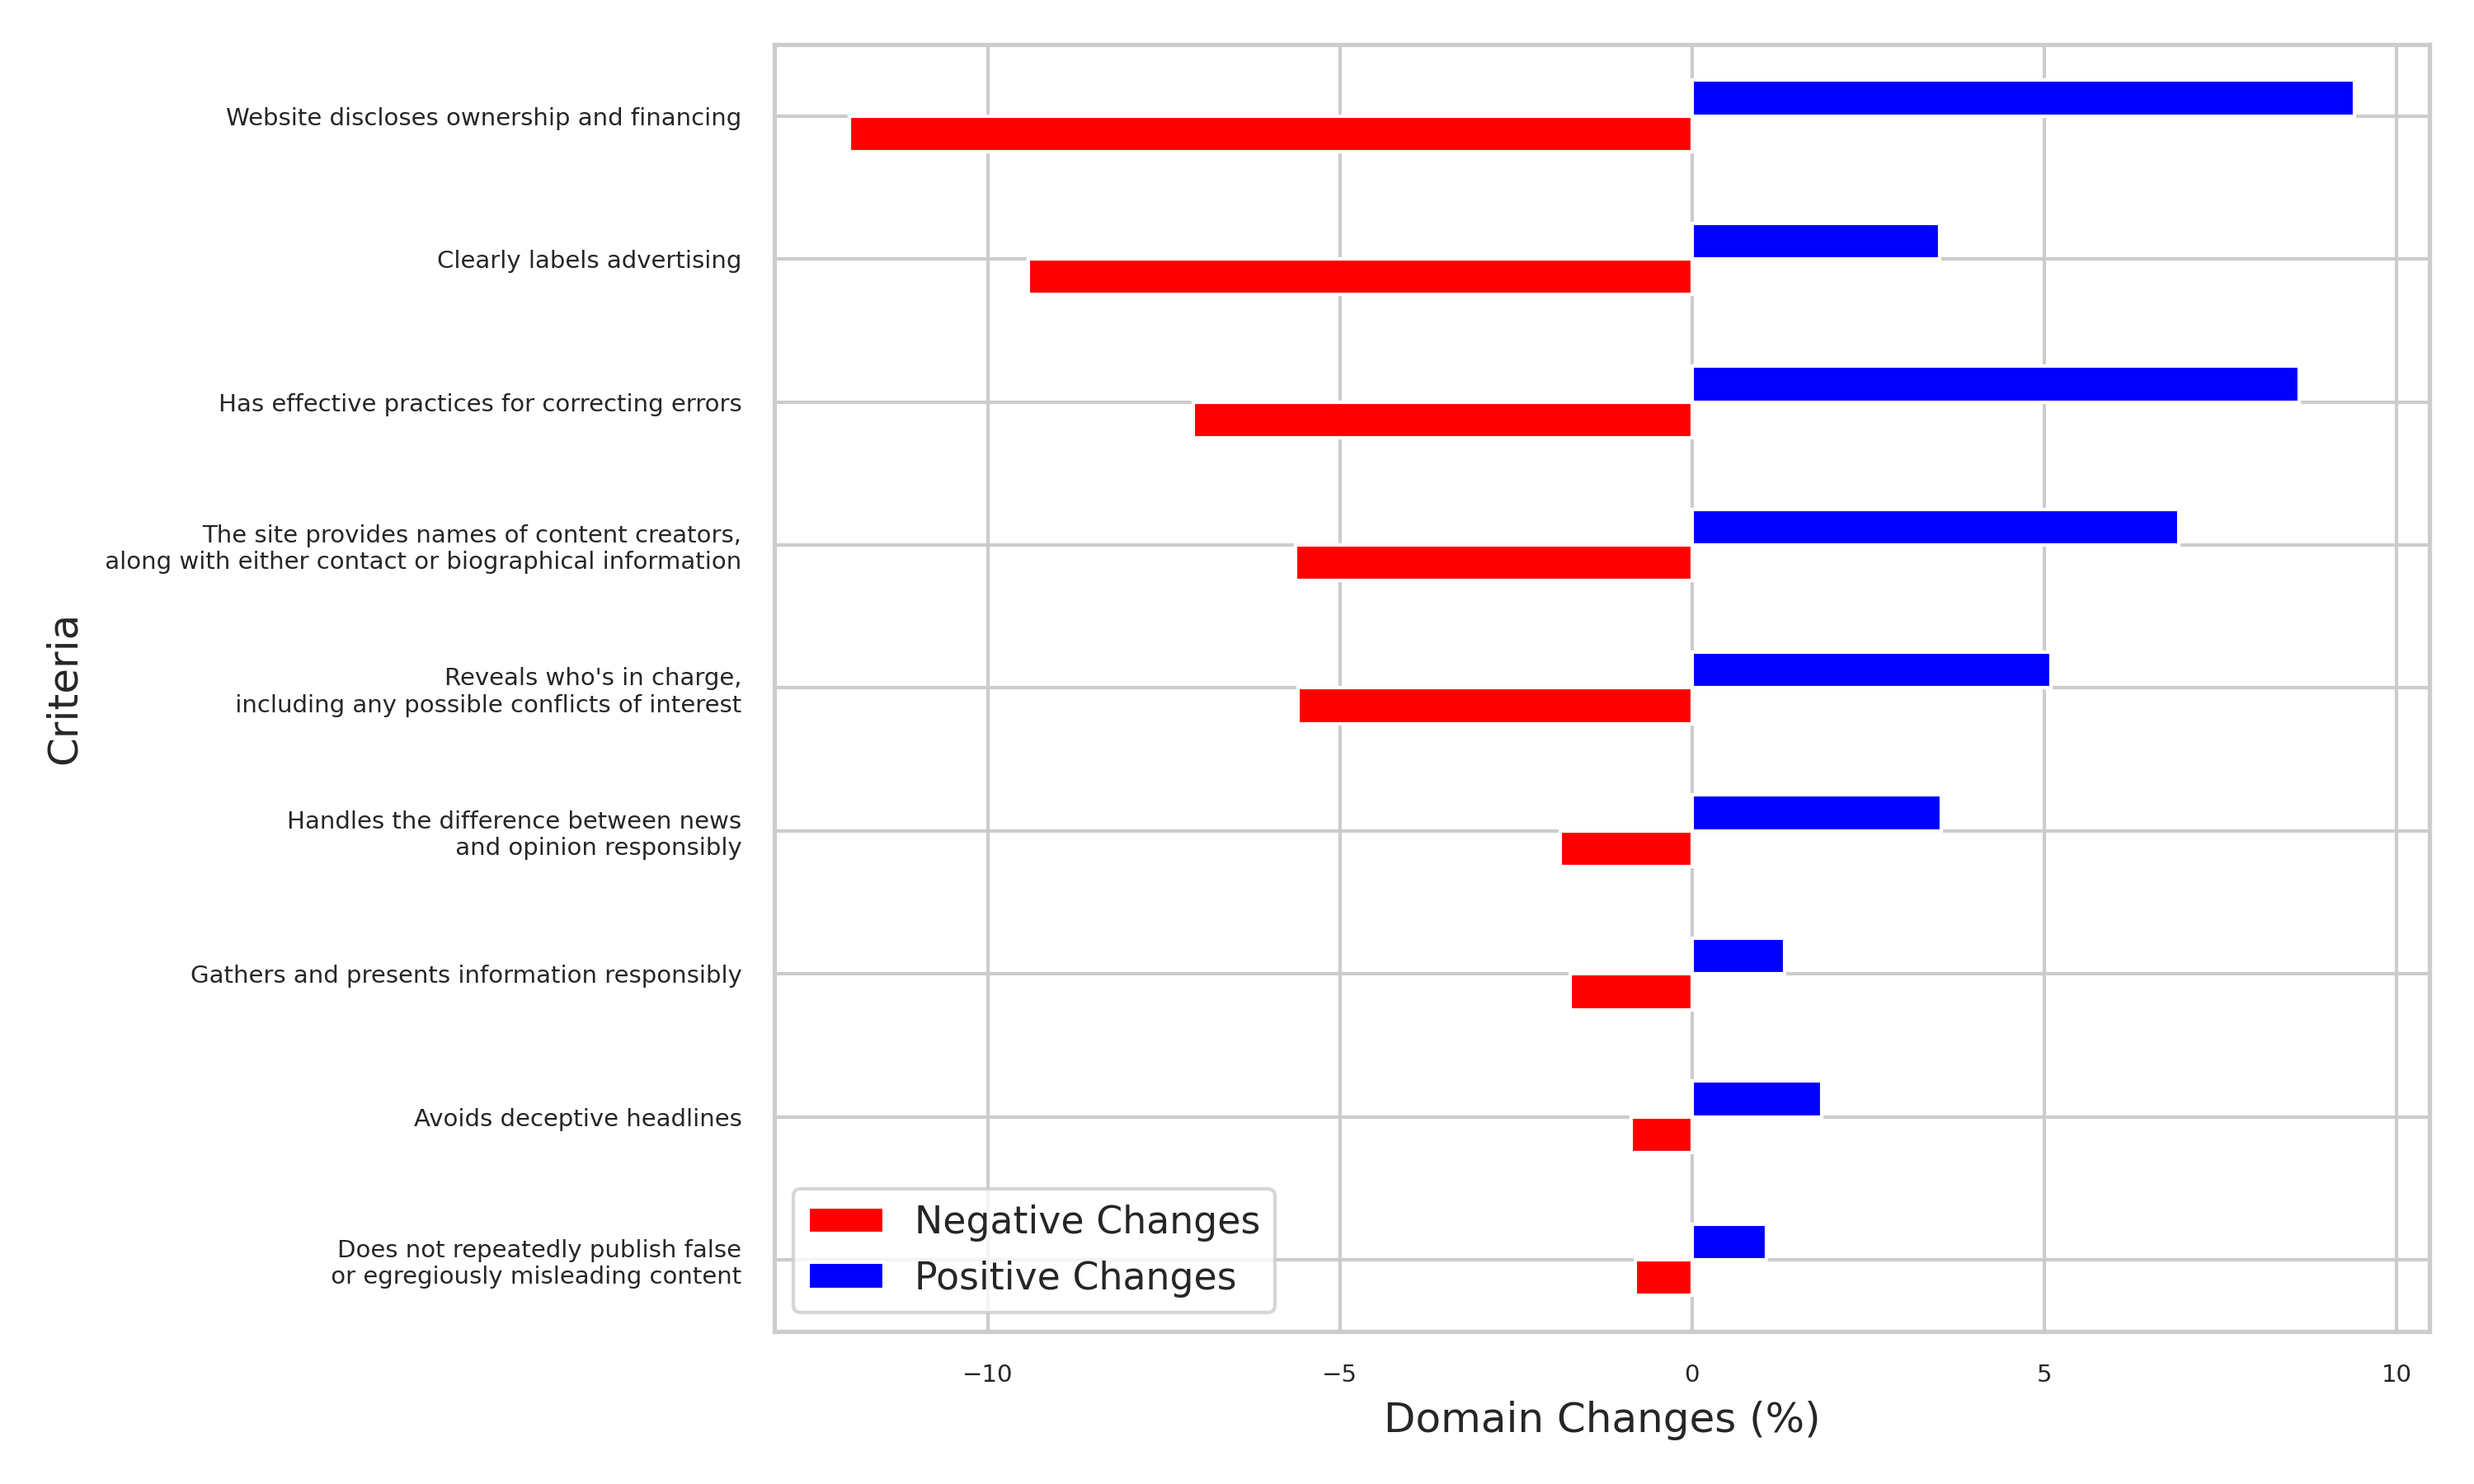
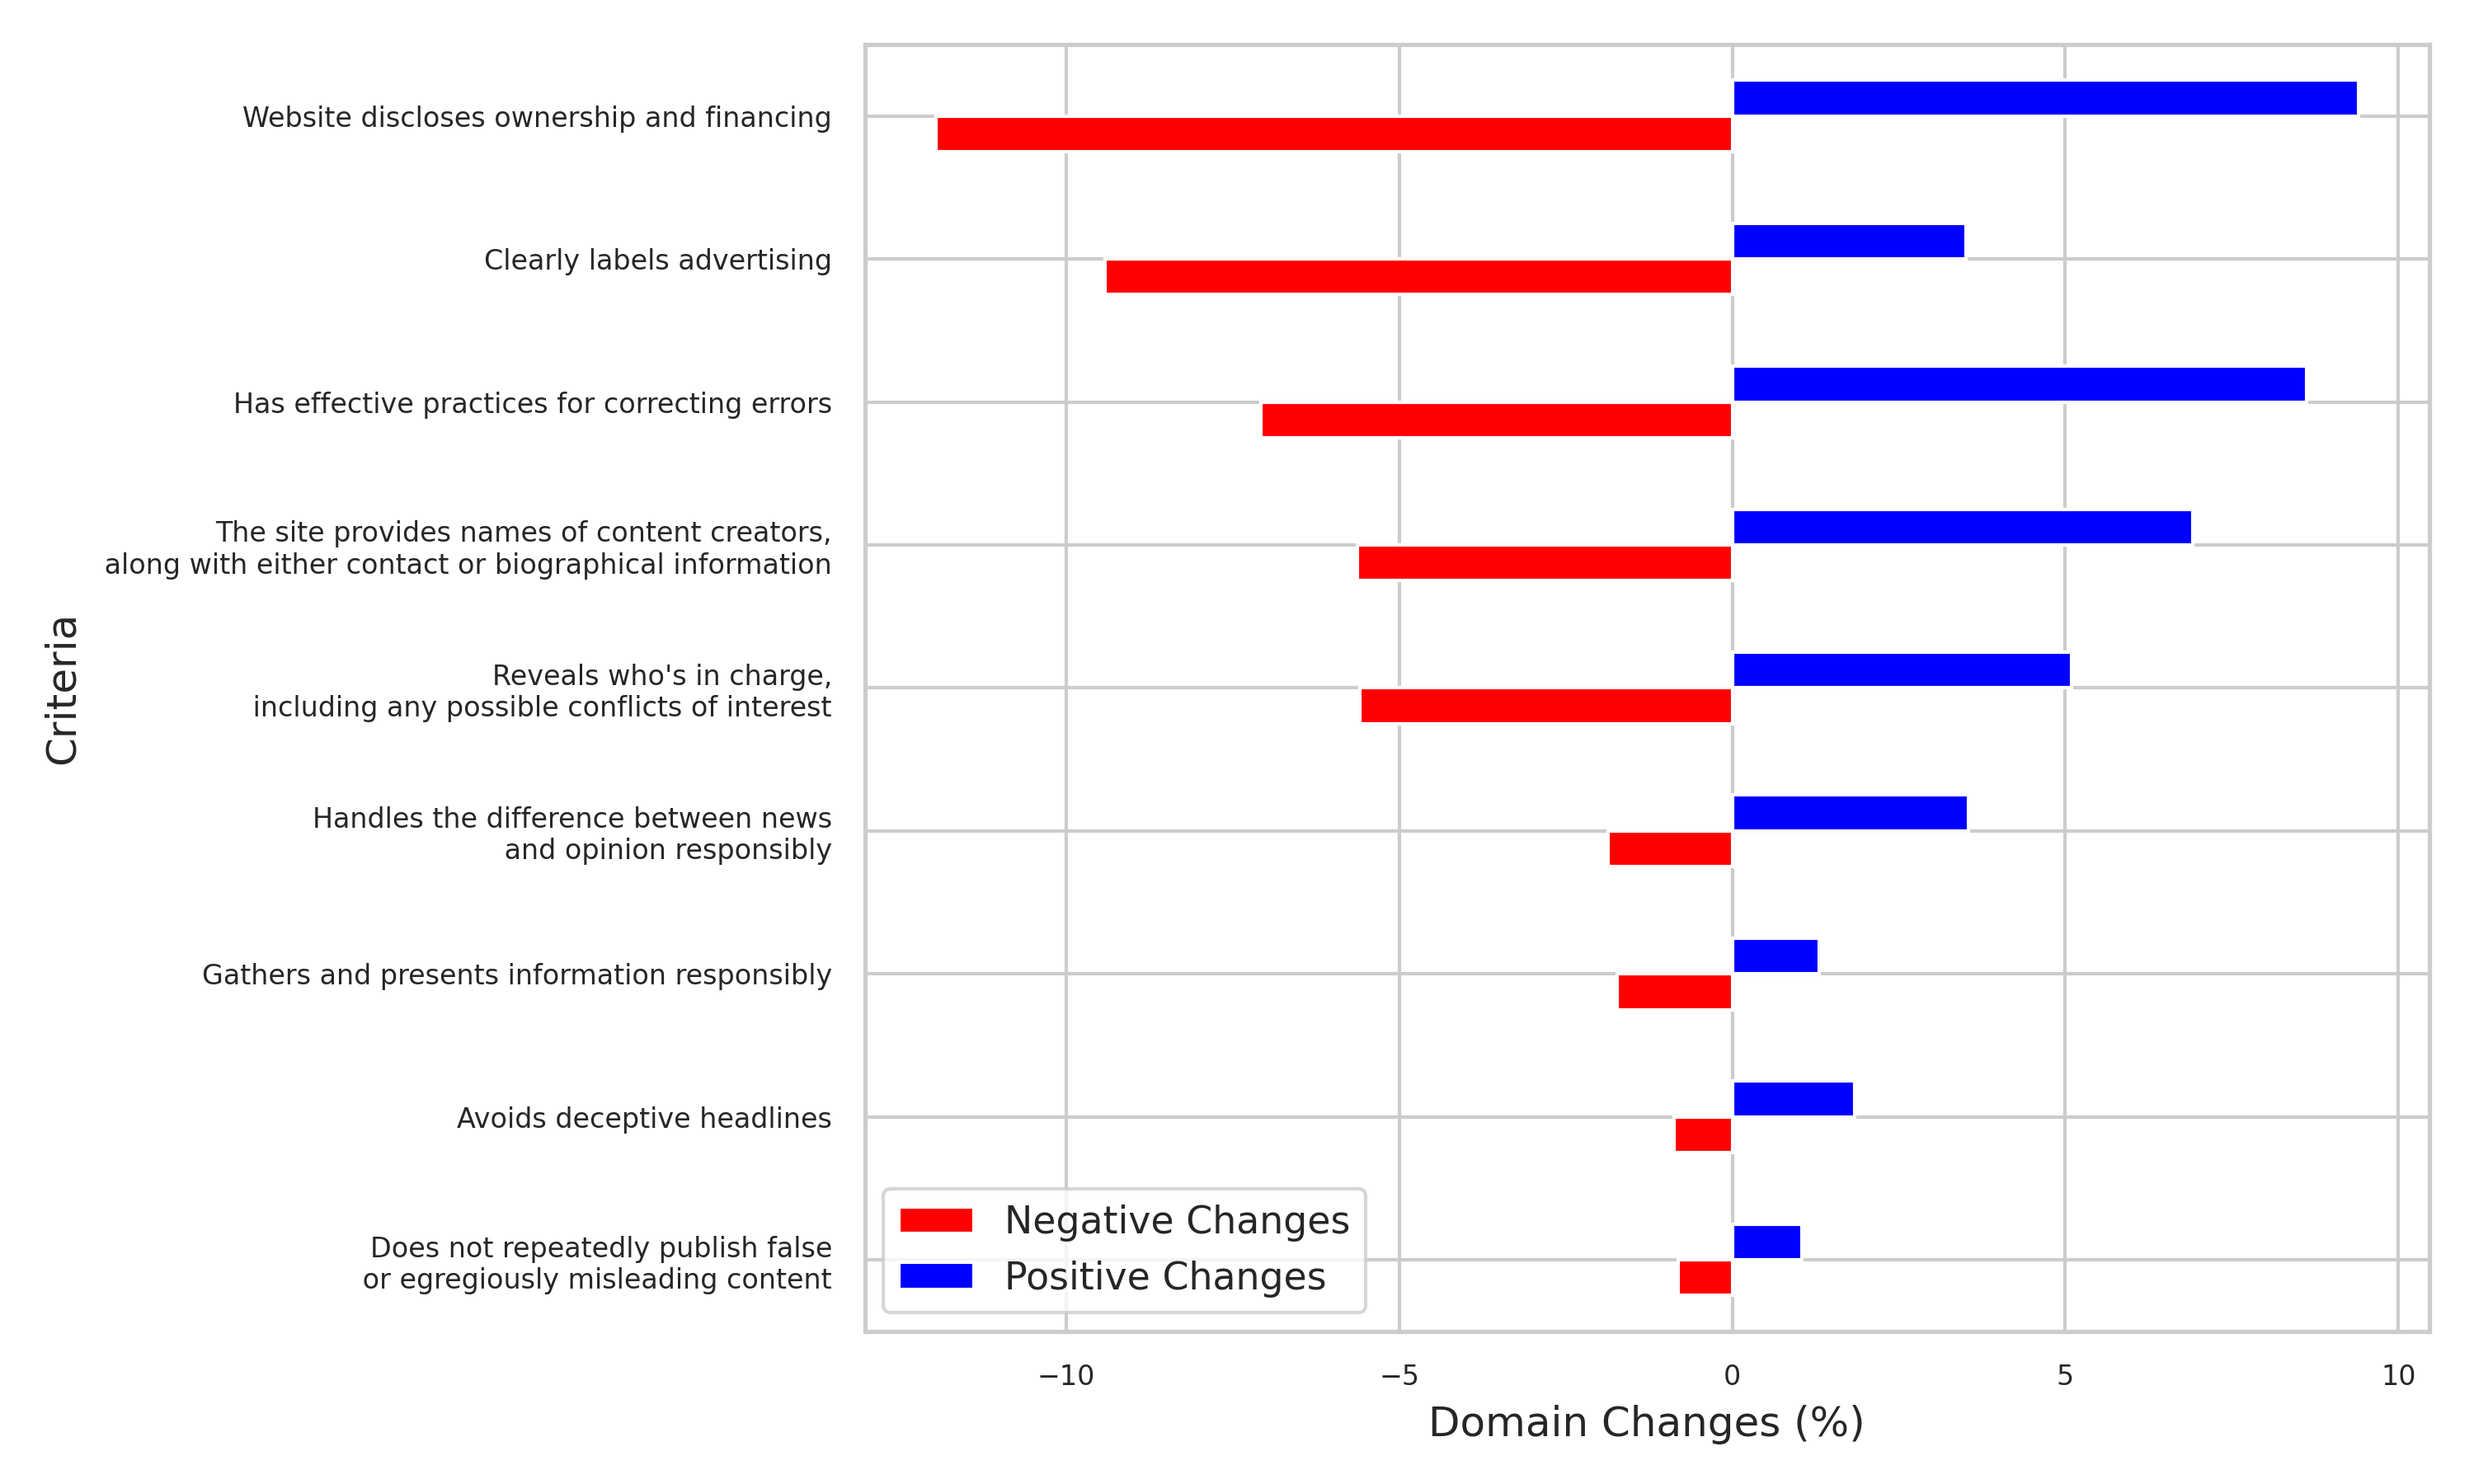
table 1 note update and f4

diff --git a/tables/t1_countries.tex b/tables/t1_countries.tex
@@ -1,7 +1,7 @@
 \begin{table}[H]
 \centering
 \caption{\textbf{Country Descriptives.}}
-\label{table:table1}
+\label{table:table2}
 \begin{tabularx}{\textwidth}{ X c c c c }
 \toprule
 Country &       n (\%) & Trustworthiness (SD) &  Updates \\
@@ -17,6 +17,6 @@ Country &       n (\%) & Trustworthiness (SD) &  Updates \\
      AT &    40 (0.38) &        71.96 (30.74) & 339 days \\
     ALL & 1451 (13.79) &         72.44 (27.9) & 370 days \\
 \bottomrule
-\multicolumn{3}{l}{\textit{Note.} Across all versions of the database with n = unique domains per country.}
+\multicolumn{3}{l}{\textit{Note.} Across all database versions with n = unique number of domains.}
 \end{tabularx}
 \end{table}
